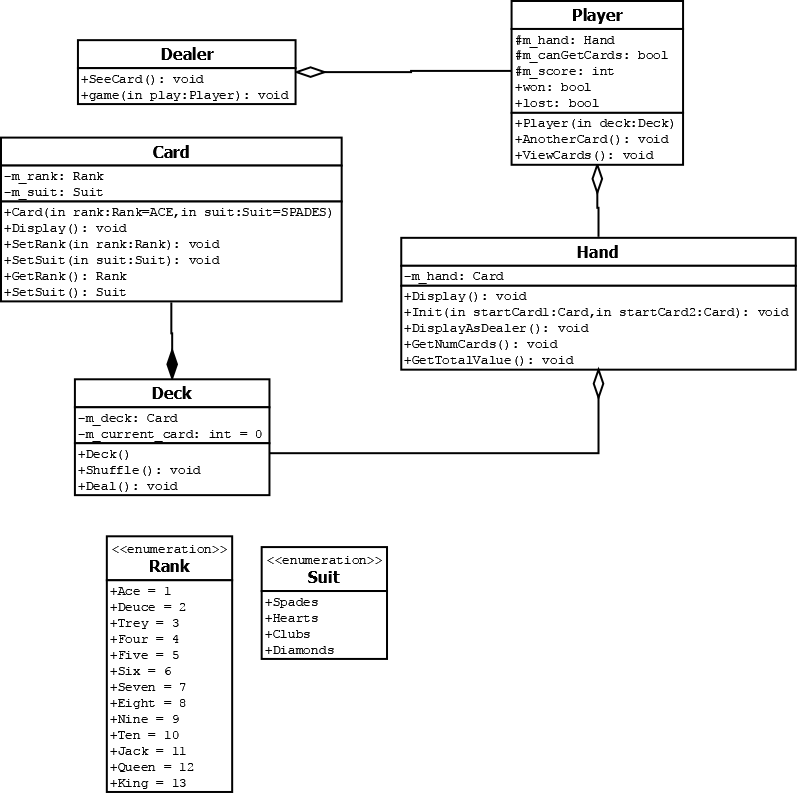
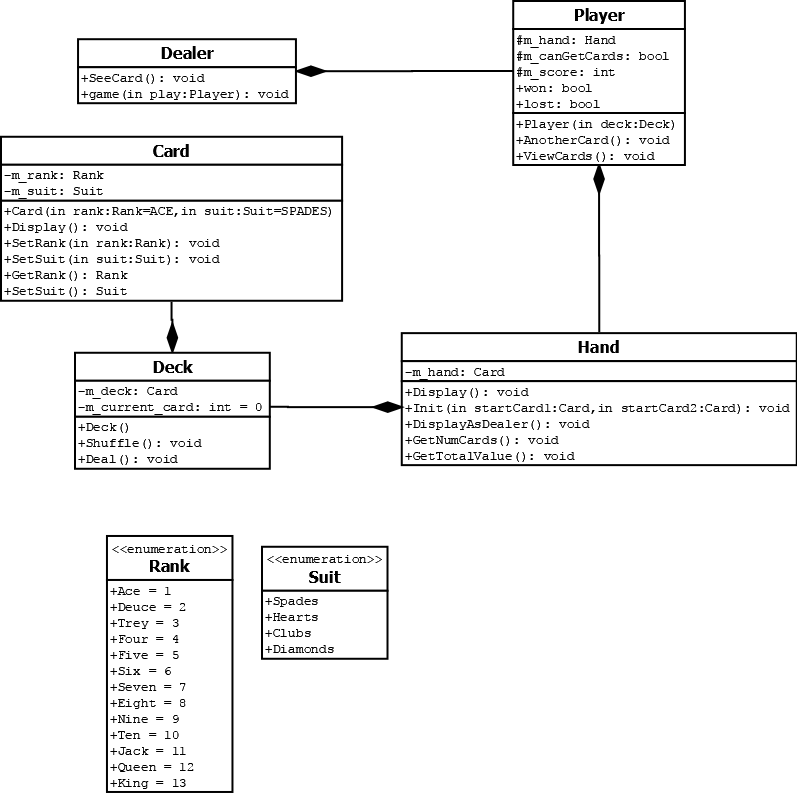
Class skeletons
Added class skeletons for Hand and Player

diff --git a/Player.h b/Player.h
@@ -1,0 +1,22 @@
+#ifndef PLAYER_H
+#define PLAYER_H
+
+#include "Hand.h"
+#include "deck.h"
+
+class Player
+{
+public:
+	Player();
+	Player(Deck deck);
+	void AnotherCard();
+	void ViewCards();
+	bool won;
+	bool lost;
+protected:
+	Hand m_hand;
+	bool canGetCards;
+	int m_score;
+};
+
+#endif

diff --git a/Hand.h b/Hand.h
@@ -1,0 +1,18 @@
+#ifndef HAND_H
+#define HAND_H
+
+#include "card.h"
+
+class Hand
+{
+public:
+	void Display();
+	void Init(Card startCard1, Card startCard2);
+	void DisplayAsDealer();
+	void GetNumCards();
+	void GetTotalValue();
+private:
+	Card m_hand;
+};
+
+#endif

diff --git a/Hand.cpp b/Hand.cpp
@@ -1,0 +1,26 @@
+#include "Hand.h"
+
+void Hand::Display()
+{
+
+}
+
+void Hand::Init(Card startCard1, Card startCard2)
+{
+
+}
+
+void Hand::DisplayAsDealer()
+{
+
+}
+
+void Hand::GetNumCards()
+{
+
+}
+
+void Hand::GetTotalValue()
+{
+
+}

diff --git a/Player.cpp b/Player.cpp
@@ -1,0 +1,20 @@
+#include "Player.h"
+
+Player::Player()
+{
+}
+
+Player::Player(Deck deck)
+{
+
+}
+
+void Player::AnotherCard()
+{
+
+}
+
+void Player::ViewCards()
+{
+
+}
